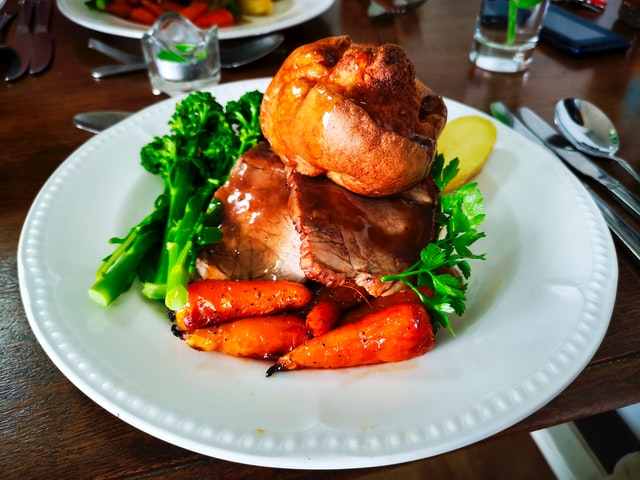
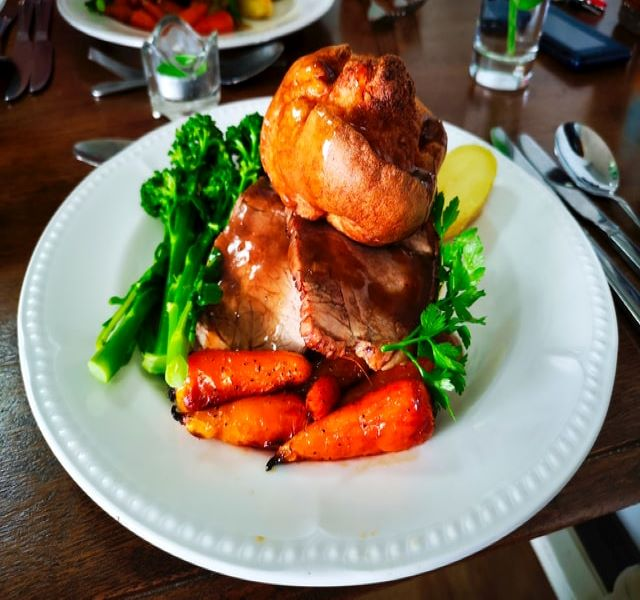
convert menu images to div image backgrounds

diff --git a/menu.html b/menu.html
@@ -63,35 +63,39 @@
     <section>
       <div class="container menu-blocks">
         <div>
-          <img src="assets/images/lunch-overlay.jpg" alt="image of lunch dish" class="menu-images">
-          <h2>Lunch</h2>
-          <h4>Monday - Saturday</h4>
-          <h4>11:30 - 15:00</h4>
+          <div id="lunch" class="menu-images" alt="image of lunch meal"></div>
         </div>
 
         <div>
-          <img src="assets/images/dinner-overlay.jpg" alt="image of lunch dish" class="menu-images">
-          <h2>Dinner</h2>
-          <h4>Monday - Saturday</h4>
-          <h4>18:30 - 22:00</h4>
+          <div id="dinner" class="menu-images" alt="image of dinner meal"></div>
+        </div>
+      
+        <div>
+          <div id="sunday" class="menu-images" alt="image of sunday meal"></div>
         </div>
 
         <div>
-          <img src="assets/images/sunday-roast.jpg" alt="image of lunch dish" class="menu-images">
-          <h2>Sunday Lunch</h2>
-          <h4>Sunday</h4>
-          <h4>11:30 - 16:30</h4>
-        </div>
-
-        <div>
-          <img src="assets/images/veg-vegan-overlay.jpg" alt="image of lunch dish" class="menu-images">
-          <h2>Vegetarian & Vegan</h2>
-          <h4>Every Day</h4>
-          <h4>All Day</h4>
+          <div id="vegetarian-vegan" class="menu-images" alt="image of vegan meal"></div>
         </div>
         <hr>
     </section>
      
+
+    <h2>Lunch</h2>
+    <h4>Monday - Saturday</h4>
+    <h4>11:30 - 15:00</h4>
+
+    <h2>Dinner</h2>
+    <h4>Monday - Saturday</h4>
+    <h4>18:30 - 22:00</h4>
+
+    <h2>Sunday Lunch</h2>
+    <h4>Sunday</h4>
+    <h4>11:30 - 16:30</h4>
+
+    <h2>Vegetarian & Vegan</h2>
+    <h4>Every Day</h4>
+    <h4>All Day</h4>
 
   <footer class="footer">
     <div class="row">

diff --git a/assets/css/style.css b/assets/css/style.css
@@ -165,18 +165,41 @@ position: relative;
 
 .menu-blocks div{
   display: inline-block;
-  width: 49%;
+  width: 49.8%;
   text-align: center;
-  height: 560px;
-  background-color: #292727;
-  color: whitesmoke;
+  height: 550px;
+  color: black;
 }
 
 .menu-images{
-  height:80%;
+  height:100%;
   width: 100%;
 }
 
+#lunch{
+  background: url("../images/lunch-overlay.jpg") no-repeat center center;
+  height:100%;
+  width: 100%;
+}
+
+#dinner{
+  background: url("../images/dinner-overlay.jpg") no-repeat center ;
+  height:100%;
+  width: 100%;
+}
+
+#sunday{
+  background: url("../images/sunday-roast.jpg") no-repeat center center ;
+  height:100%;
+  width: 100%;
+}
+
+#vegetarian-vegan{
+  background: url("../images/veg-vegan-overlay.jpg") no-repeat center center ;
+  height:100%;
+  width: 100%;
+}
+ 
 /*-----------------Footer------------------*/
 
 .footer{

diff --git a/index.html b/index.html
@@ -43,7 +43,7 @@
       </nav>
     </header>
     <section class="hero-image-container">
-      <div class="hero-image" alt="restaurant"></div>
+      <div class="hero-image" alt="delicious meal"></div>
       <div class="hero-image-overlay"> 
         <h2>Grizzo's</h2>
         <h3>Fine Dining Since 1984</h3>
